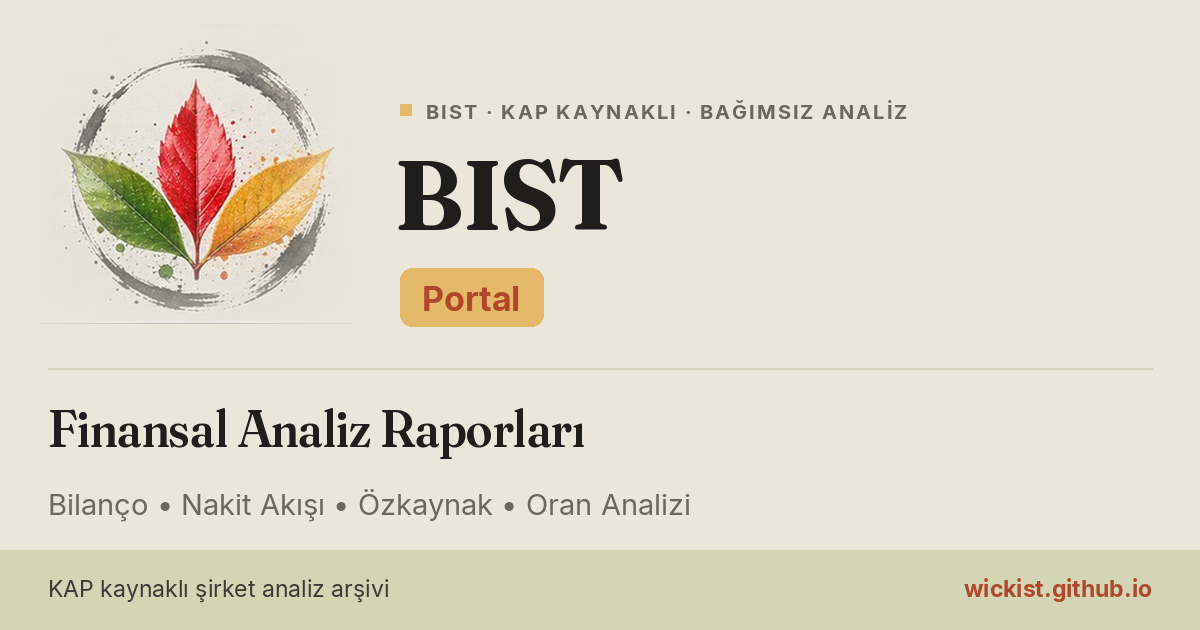
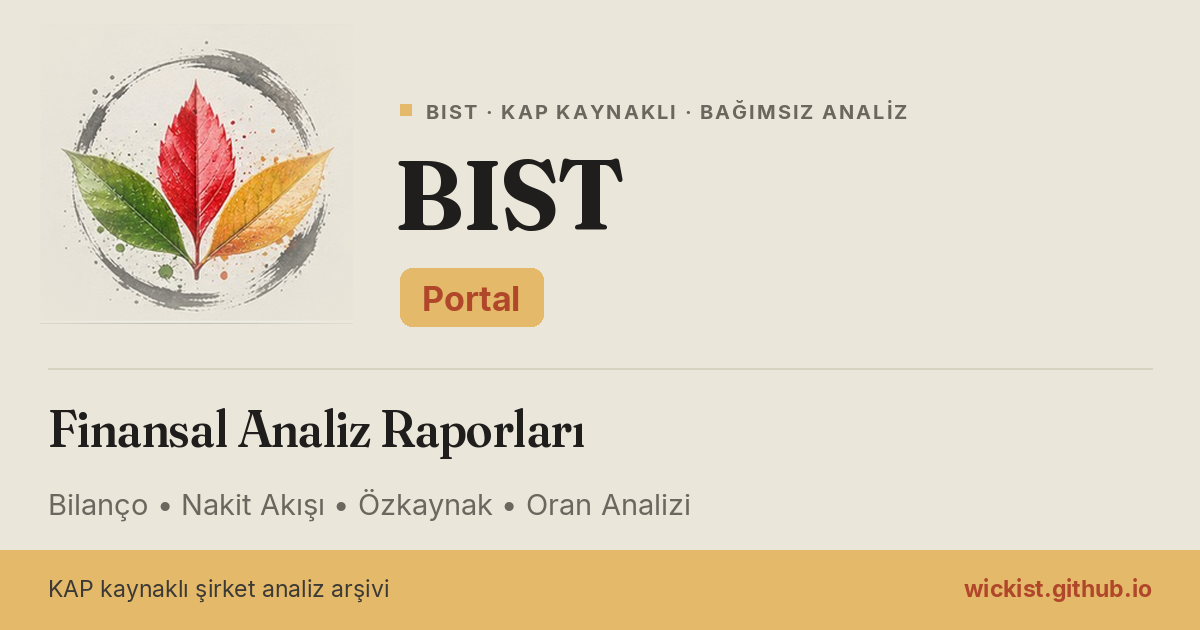
feat(portal): alt bant artik donem rozetinin amber tonu (#E4B96A)

Changed region(s): [[0.0, 0.8746, 1.0, 1.0]]

diff --git a/tools/make_og.py b/tools/make_og.py
@@ -27,7 +27,7 @@ MUTED = (107, 103, 94)     # #6B675E
 CLAY = (176, 71, 42)       # #B0472A — rapor aksanı
 AMBER = (228, 185, 106)    # #E4B96A — rapor amber vurgusu
 RULE = (216, 210, 192)     # hairline
-BAND = (211, 213, 180)     # yaprak yeşili silik alt bant
+BAND = (228, 185, 106)     # #E4B96A — alt bant: dönem rozetiyle aynı amber
 FDIR = ROOT / "assets" / "fonts"
 LOGO = ROOT / "assets" / "images" / "logo.png"   # yaprak + ensō — her kapakta zorunlu
 EYEBROW = "BIST · KAP KAYNAKLI · BAĞIMSIZ ANALİZ"
